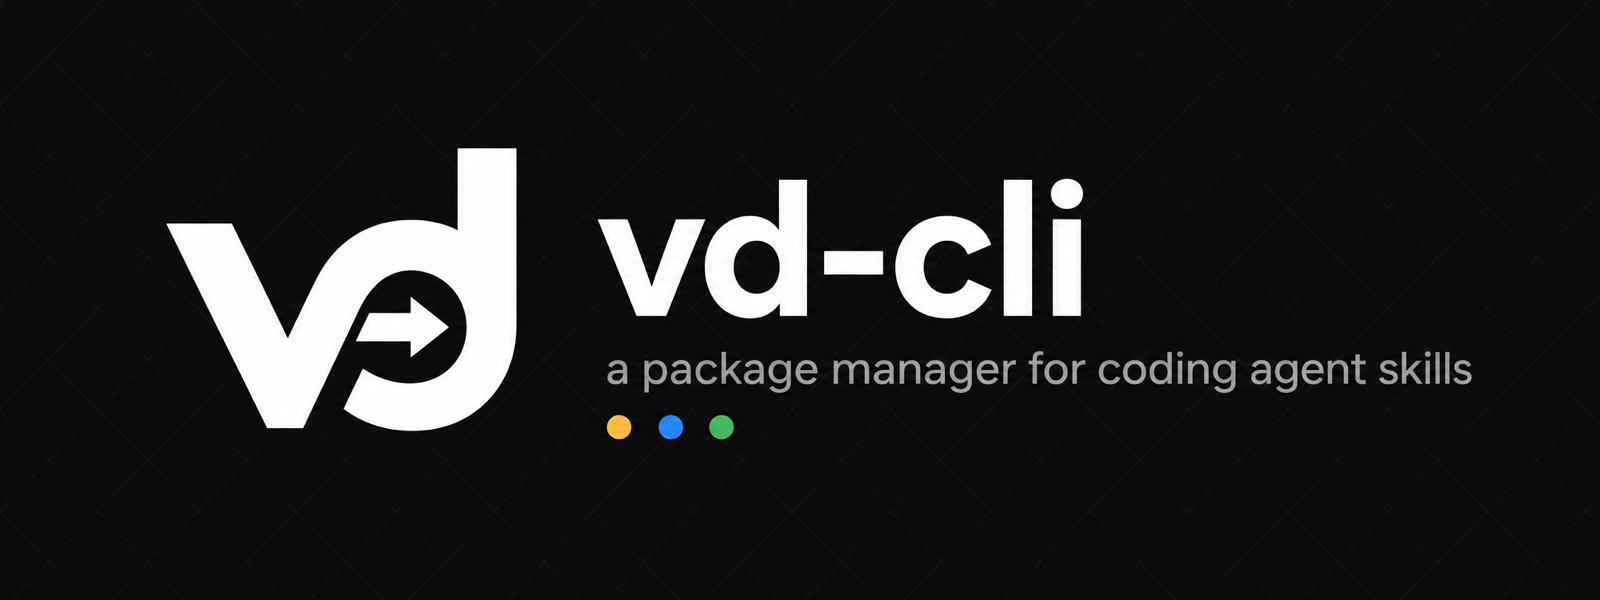
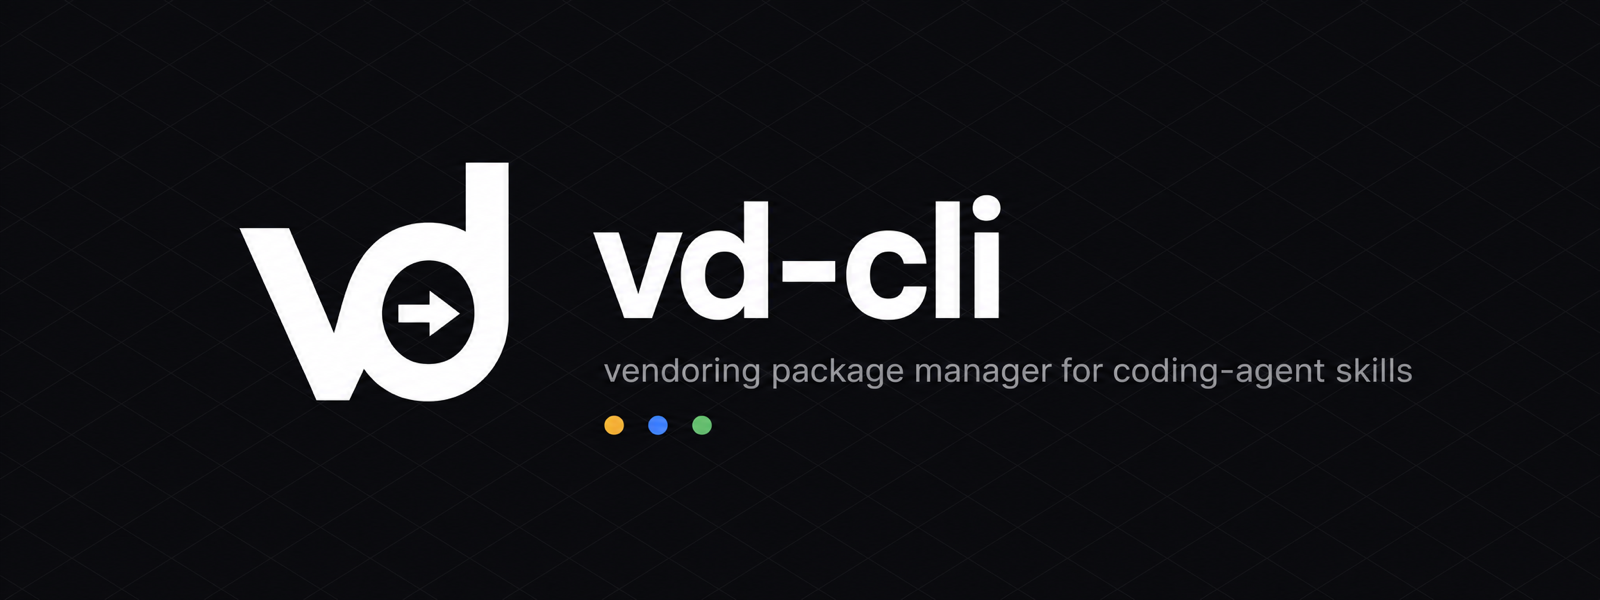
docs: add 'vendoring' differentiator to positioning copy
Per research (plans/reports/research-260523-2001-vd-positioning.md):
the 2026 agent-skills space is crowded with hosted-registry-flavored
package managers (Microsoft APM, Vercel Skills.sh, AgentPkg, Skilldex).
vd's distinctive angle is vendoring + SHA lock + multi-target dispatch
— skills live in your repo as plain files, no server, no runtime registry.

Adding the 'vendoring' adjective to the README intro, banner tagline,
brew description, and GitHub repo description surfaces that
differentiator without leaving the recognized 2026 category.

Unit noun stays 'skill' (Anthropic + Codex term-of-art, SKILL.md
hard-codes it). Category stays 'package manager' (industry consensus
per APM, Skilldex, JFrog narrative).

- README intro: 'vendoring package manager' + two-sentence flow
- assets/banner.png: re-rolled with new tagline
- .goreleaser.yaml: brew description updated for next release
- GH repo description: live now
- plans/reports/: research report for future reference

diff --git a/plans/reports/research-260523-2001-vd-positioning.md b/plans/reports/research-260523-2001-vd-positioning.md
@@ -1,0 +1,268 @@
+# Research: vd positioning — unit + category nouns
+
+_Date: 2026-05-23 · Mode: --deep · Queries: 7_
+
+## TL;DR
+
+- **Recommendation:** Keep **"skill"** (unit) + **"package manager"** (category). Inject **"vendoring"** as a differentiating adjective. Final shape: *"vendoring package manager for coding-agent skills."*
+- **Runner-up:** *"skill toolchain"* — wins only if avoiding the crowded "package manager" category outweighs ecosystem recognition. It doesn't, today.
+- **Avoid:** Coining a new unit noun (kit / bundle / recipe / chart / artifact). Anthropic, OpenAI, and every major 2026 competitor converged on "skill"; the SKILL.md filename hard-codes it at the filesystem layer. Going off-vocabulary is pure SEO and cognitive tax.
+
+## The Question
+
+Two paired decisions about how vd presents itself in a 2-second README/description scan:
+
+1. **Unit noun** — what does vd manage? (skill, package, artifact, toolset, capability, extension, plugin, recipe, chart, module, bundle, kit)
+2. **Category noun** — what category does vd belong to? (package manager, vendoring tool, dependency manager, registry, orchestrator, dispatcher, hub, marketplace, toolchain)
+
+The decision is irreversible-ish — once it lands in a GitHub description, brew formula description, and homepage tagline, it shapes how the project is found and understood.
+
+## Evaluation Criteria
+
+- **Ecosystem fit** — does the term match what Anthropic, OpenAI, and the broader coding-agent ecosystem already call this thing? Going off-vocabulary loses recognition.
+- **Category recognition** — when a developer scans `gh search "agent skills"`, do they immediately know what vd is?
+- **Differentiation** — does the framing surface vd's unique angle (vendoring + SHA lock + multi-target dispatch) vs the registry/runtime crowd (Skills.sh, AgentPkg, APM)?
+- **Collision / SEO** — naming overlap with established tools or generic words that dilute search.
+- **Future-proofness** — if vd grows beyond skills (Cursor rules, Cline rules, MCP configs), does the term constrain?
+- **Brevity / scanability** — fits in a 70-char GitHub description without losing meaning.
+
+## Options Considered
+
+Unit nouns (12):
+- **skill** — Anthropic/Codex term-of-art; SKILL.md is the filename
+- **package** — generic (npm, brew, dbt); used by competitors as parent category
+- **artifact** — build-output flavored; doesn't fit source files
+- **toolset** — implies a collection-per-unit; mismatch
+- **capability** — accurate semantically but verbose
+- **extension** — VS Code / Chrome convention; not used in agent-skills space
+- **plugin** — Anthropic uses this for the *bundle* layer (plugin = skills + commands + hooks)
+- **recipe** — Chef / OpenWrt; not adopted here
+- **chart** — Helm-coined; works because Helm owns it
+- **module** — Terraform / Go; implies linked code
+- **bundle** — collides with Anthropic's "plugin" already being a bundle
+- **kit** — vague brand-driven word
+
+Category nouns (10):
+- **package manager** — npm, brew, dbt, Helm; the dominant 2026 framing for the agent-skills space too
+- **vendoring tool** — accurate to vd's distinctive angle
+- **dependency manager** — synonymous with package manager but rarer in CLI tool naming
+- **registry** — wrong for vd (vd is a client, not a host)
+- **orchestrator** — cloud / k8s flavored
+- **dispatcher** — only describes `vd build`, not the vendoring half
+- **hub** — wrong (vd is the client)
+- **marketplace** — wrong (vd doesn't sell or host)
+- **toolchain** — accurate but unconventional in this space
+- **kit manager** — too vague
+
+## Ecosystem Landscape (May 2026)
+
+The 2026 agent-skills space is more crowded than expected. Direct positioning competitors:
+
+| Tool | Unit noun | Category framing | Hosting model |
+|---|---|---|---|
+| **Anthropic Claude Code** | skill | "Extend Claude with skills" + plugins | SKILL.md, plugin marketplace |
+| **OpenAI Codex** | skill | "Agent Skills" (open standard with Anthropic) | SKILL.md in `.agents/skills/` + plugins |
+| **Microsoft APM** ([github.com/microsoft/apm](https://github.com/microsoft/apm)) | skill, prompt, instruction, plugin, MCP | **Agent Package Manager** | apm.yml manifest, install per platform |
+| **Skills.sh (Vercel)** | skill | registry / marketplace, **18 agents supported** | hosted registry, tracks install counts |
+| **AgentPkg** ([agentpkg.com](https://www.agentpkg.com/)) | skill | **Agent Package Registry** | registry-hosted |
+| **Skilldex** ([arxiv 2604.16911](https://arxiv.org/abs/2604.16911)) | skill, **skillset** | "package manager and registry for agent skill packages" | hierarchical scope-based distribution |
+| **JFrog** | skill (positioning) | "Agent Skills are the New Packages of AI" | enterprise registry |
+| **SkillsMP** | skill | community discovery (351k SKILL.md files indexed) | GitHub crawler |
+| **dbt** | package | Package manager (`dbt deps`) | dbt Hub registry + git + local |
+| **Helm** | **chart** | "Package manager for K8s" | OCI chart registries |
+| **Cline** | rule | (no package manager) | `.clinerules/` per-repo |
+| **Cursor** | rule | (no package manager) | cursor rules per-repo |
+
+Five observations from this landscape:
+
+1. **"Skill" is the convergent unit term**, full stop. Anthropic + OpenAI joint open standard. APM, Skilldex, AgentPkg, Skills.sh, JFrog, SkillsMP — all use "skill." Picking anything else fights ecosystem gravity.
+
+2. **"Package manager" is the prevailing category framing** for this space in 2026. APM literally embeds it in the product name; Skilldex's title uses the phrase; JFrog blogs "Agent Skills are the New Packages." The 2026 industry narrative is "skills are the new npm packages." Going off-category loses SEO.
+
+3. **Most competitors are registries**, not vendoring tools. APM, Skills.sh, AgentPkg, Skilldex all involve some hosted catalog + install flow. vd is genuinely different: it vendors into your repo as plain files, hashes them, locks them, and emits per-agent layouts. dbt deps is the closest structural analog (vendor + lockfile + multi-source), not the registries.
+
+4. **"Plugin" is already taken** as the *bundle* layer above skills. A plugin contains skills + commands + hooks + MCP configs. So vd can't use "plugin" for its unit without colliding with Anthropic's hierarchy.
+
+5. **Cursor and Cline use "rule"**, not "skill" — they have no skills convention. Cline has `.clinerules/`, Cursor has `.cursorrules` / project rules. If vd ever grows to support those agents, the unit noun would need to be umbrella-able (e.g., "extension" or "agent context") — but for *today*, every agent vd supports uses "skill."
+
+## Comparison: Unit Noun
+
+| Criterion | skill | package | extension | recipe | bundle / kit |
+|---|---|---|---|---|---|
+| Ecosystem term-of-art | **✓ Anthropic/OpenAI** | ✗ overloaded | ✗ wrong space | ✗ unused here | ✗ collides with plugin |
+| Matches SKILL.md filename | **✓ literal match** | ✗ | ✗ | ✗ | ✗ |
+| Used by competitors | **✓ all of them** | ✗ they call vd-likes "package managers" but the unit is "skill" | ✗ | ✗ | ✗ |
+| Search / SEO | medium (slight overload w/ HR) | high but generic | low | low | very low |
+| Future-proof if vd adds rules | weak (skill ≠ rule) | medium (could umbrella) | medium | weak | weak |
+| Cognitive load | **lowest** — ecosystem readers know it | medium (too generic) | medium | high | high |
+| Dealbreaker | none today | wrong layer (unit ≠ category) | nobody calls them this | not adopted | collides with plugin |
+
+**Verdict: "skill."** Every signal converges. The filesystem hard-codes it (SKILL.md), the two agents vd supports both ship it as their term, and every direct competitor uses it. The only real cost is overload risk with the generic English word "skill," which the qualifier "coding-agent" (e.g., "coding-agent skill") resolves cleanly.
+
+## Comparison: Category Noun
+
+| Criterion | package manager | vendoring tool | dependency manager | registry | toolchain |
+|---|---|---|---|---|---|
+| 2026 ecosystem framing | **✓ dominant** | partial — accurate but uncommon phrasing | ✓ adjacent / synonymous | ✗ wrong (vd is client) | ✗ unconventional in this space |
+| Differentiates from registries | ✗ — APM also says this | **✓ strong** — vd doesn't host | ✓ — implies lockfile, no host | n/a (it IS the registries) | ✓ |
+| Search recognition | **highest** — "agent skills package manager" is the searched phrase | low — niche term outside Go/Ruby vendoring | medium | medium | low |
+| Implies lock + reproducibility | medium (npm-flavored) | **strongest** — vendoring → vendored | ✓ | weak | medium |
+| Implies multi-target dispatch | weak | weak | weak | weak | ✓ medium |
+| Conflict with Helm/dbt analogy | none — both call themselves PMs | none | none | n/a | rarely used |
+| Dealbreaker | doesn't differentiate from APM/Skills.sh on its own | too niche for cold scan | none | inaccurate for vd | doesn't match the category 2026 actually uses |
+
+**Verdict:** "package manager" is the category 2026 settled on. To differentiate vd from registry-flavored package managers (APM, Skills.sh, AgentPkg), pair it with the **"vendoring"** adjective. That single word does the heavy lifting: it signals "no server, no runtime registry — skills live in your repo as files with a lock."
+
+## Per-Option Deep Dive
+
+### "skill" (unit) — RECOMMENDED
+
+- **Strengths:** Ecosystem-convergent. Hard-coded by SKILL.md. Used by every direct competitor. Lowest cognitive load for the target audience.
+- **Weaknesses:** Generic English word — search overlap with HR/gaming. Risks looking *un*-distinctive when paired with a generic category noun.
+- **Dealbreakers:** None today. Possible future risk: if vd grows to manage Cursor `.cursorrules`, Cline `.clinerules/`, or MCP server configs — "skill" doesn't umbrella those. Mitigation: keep "skill" for the primary unit, document adjacent units (rules, MCP configs) as separate concepts in the roadmap rather than forcing them under one umbrella term.
+
+### "package" (unit) — REJECT
+
+- **Strengths:** Generic, instantly understood as "a unit of installable software."
+- **Weaknesses:** Wrong layer. In this ecosystem, "package" is the CATEGORY (package manager) and the contained thing is "skill." Saying vd manages "packages" creates a recursive confusion ("is vd a package manager for packages?"). dbt called its units "packages" because dbt predates the agent-skills convention by years; vd doesn't have that pass.
+- **Dealbreaker:** Wrong layer. Calling skills "packages" puts vd at odds with Anthropic's own docs and every Codex doc that mentions `.agents/skills/`.
+
+### "package manager" (category) — RECOMMENDED
+
+- **Strengths:** The 2026 category as recognized by APM, Skilldex, dbt, Helm, the JFrog narrative. Searchable. Familiar. No translation needed when explaining vd to a new dev.
+- **Weaknesses:** Doesn't on its own differentiate vd from registry-style competitors. Solved by adding "vendoring."
+- **Dealbreakers:** None.
+
+### "vendoring tool" (category) — RUNNER-UP
+
+- **Strengths:** Most accurate single phrase. Captures vd's distinctive value (no host, SHA-locked files in repo). Same shape as Go vendoring, Ruby Bundler, dbt deps.
+- **Weaknesses:** Niche term. Most developers in the agent-skills space won't search "vendoring tool" — they'll search "agent skills package manager" and "skill manager for Claude Code." Lower discoverability.
+- **Dealbreakers:** Reduced search recognition. Use as an *adjective on* "package manager," not as a replacement.
+
+### "registry" (category) — REJECT
+
+- **Strengths:** Established term in dev tooling.
+- **Weaknesses:** Inaccurate. vd is a *client* of registries (it pulls from GitHub, plugin marketplaces, raw URLs). Calling vd a registry mis-sets expectations and conflicts with what AgentPkg / Skills.sh actually are.
+- **Dealbreaker:** Wrong category. vd is consumer-side, registries are producer-side.
+
+### "toolchain" (category) — REJECT for category, INTERESTING for tagline
+
+- **Strengths:** Implies multi-step pipeline (fetch → lock → emit), which vd actually has.
+- **Weaknesses:** Not the category dev tools use in 2026 for this space.
+- **Dealbreaker:** Outside the recognized category vocabulary.
+
+## Failure Modes
+
+| Failure | Trigger | Symptom | Mitigation |
+|---|---|---|---|
+| Misidentified as a registry | Description leans on "manager" without "vendoring" | Users expect a hosted catalog; complain when they have to point at upstream URLs themselves | Lead with "vendoring" so expectation is set in the first sentence |
+| Drowned in SEO by APM / Skills.sh | Description copies the generic "Agent Package Manager" phrasing | vd gets buried under the funded competitors | Use distinctive "vendoring" + Claude/Codex name-drop; lean on the *client-side* nature |
+| Limits to skills only | Unit noun "skill" baked into copy, then Cursor / Cline support added | README/CHANGELOG suddenly contradict — "vd manages skills (and also rules?)" | Treat "skill" as the *primary* unit; note in roadmap that adjacent units (rules, MCP) may join as siblings, not under the "skill" umbrella |
+| Plugin-vs-skill confusion | README conflates the two | Users send Claude `plugin.json` patches when they meant SKILL.md | The Supported agents table already covers this — keep it |
+
+## Migration Paths
+
+- **From current copy ("Package manager for coding agent skills") → recommended ("Vendoring package manager for coding-agent skills"):** zero-risk. One-word insertion. Affects: GitHub description, README intro, goreleaser brew description.
+- **From recommended → runner-up ("Skill vendoring tool"):** higher cost. Drops the recognized category framing. Only worth it if vd ever wants to differentiate from APM/Skills.sh hard enough to sacrifice search recognition. Don't do this preemptively.
+- **From "skill" → any other unit noun:** very high cost. Touches docs, CHANGELOG, every internal doc reference. Not recommended unless the ecosystem itself shifts terminology (which would happen ecosystem-wide, not project-by-project).
+
+## Decision Reversibility
+
+Adding "vendoring" to the current copy is fully reversible — it's a one-word edit. Locking in a non-"skill" unit noun is structurally hard to reverse once it propagates through code paths (`skills.toml`, `skills.lock`, `skills/` directory layout, the SKILL.md filename itself). For this reason, the *unit* decision matters more than the *category* adjective decision, and the unit decision is settled by the ecosystem and the filesystem.
+
+## Operational War Stories (industry context)
+
+- **JFrog** ([blog post Jan 2026](https://jfrog.com/blog/agent-skills-new-ai-packages/)) frames the agent-skills space as the next-npm and explicitly notes the security/distribution gap that vendoring + lockfile addresses. Their angle: enterprises will treat skills like dependencies *because* skills carry executable behavior. vd's vendoring + SHA-lock model maps directly onto this narrative.
+- **APM (Microsoft)** chose the literal name "Agent Package Manager" — confirming the category vocabulary even from a 200-pound gorilla. vd's positioning needs to share the category but distinguish on mechanism (vendoring vs declarative install).
+- **Skills.sh (Vercel, Jan 2026 launch)** supports 18 agents and tracks install counts — a hosted registry model. vd's "you point at any URL, vendor it into your repo" model is the *opposite* design. The "vendoring" adjective communicates this opposition cleanly.
+- **dbt deps** is the strongest structural precedent: vendoring + lockfile + multi-source + drift detection. dbt confidently calls itself a "package manager" and calls its units "packages" — but dbt got there before agent-skills existed and predates the "skill" convention. vd can't claim "package" as a unit without colliding with the more-recent ecosystem.
+
+## Recommendation
+
+**Pair:** `"skill"` (unit) + `"vendoring package manager"` (category with differentiating adjective).
+
+**Why:**
+
+- "Skill" is settled by Anthropic + OpenAI + every direct competitor + the SKILL.md filename. No upside in deviating.
+- "Package manager" is the 2026 category for this exact problem space (per APM, Skilldex, JFrog, dbt analogy). Highest search recognition.
+- "Vendoring" differentiates vd from the registry-flavored competitors (Skills.sh, AgentPkg, APM) by signaling "no host, files in your repo, SHA-locked." Maps to dbt-deps and Go-vendoring precedent. One adjective, zero new vocabulary.
+
+**Runner-up:** `"skill"` + `"toolchain"` — wins only if vd ever wants to lean harder into the multi-target dispatch story (because "toolchain" implies multi-stage pipeline). Today, search recognition matters more.
+
+**Avoid:** Inventing a unit noun ("kit," "recipe," "chart"). The ecosystem chose; fighting it costs more than it pays.
+
+## Concrete Copy Recommendations
+
+### GitHub repo description (~70 chars)
+
+Current: `Package manager for coding agent skills (Claude Code, Codex)` (60 chars)
+
+Recommended: `Vendoring package manager for coding-agent skills (Claude Code, Codex)` (70 chars)
+
+The hyphen in "coding-agent" reads as a compound modifier and reduces "coding agent skills" ambiguity.
+
+### Banner tagline (in `assets/banner.png`)
+
+Current image text: `a package manager for coding agent skills`
+
+Optional re-roll: `vendoring package manager for coding-agent skills` — one word longer, communicates the differentiator at the top.
+
+Honest call: the banner is fine as-is. The differentiator can live one scroll-line down in the README intro. Re-rolling the banner just for one word costs a Codex generation and risks losing the current good composition.
+
+### README intro paragraph
+
+Current:
+> **vd** is a single-binary package manager for the skills that power your coding agents.
+> Vendor skills from any upstream, lock them with a SHA, sync them to every agent in your stack.
+
+Recommended:
+> **vd** is a single-binary vendoring package manager for the skills that power your coding agents.
+> Skills live in your repo as plain files. `vd` fetches them from any upstream, locks them with a SHA, and dispatches them to every agent in your stack.
+
+Two changes:
+1. Add "vendoring" before "package manager" — the differentiation adjective.
+2. Replace "lock them with a SHA, sync them to every agent" with a two-sentence flow that names the unique constraint ("skills live in your repo as plain files") before the action verbs. This is what separates vd from APM / Skills.sh, and it's worth one extra sentence.
+
+### Goreleaser brew description
+
+Current: `Package manager for coding agent skills (Claude Code, Codex)`
+
+Recommended: `Vendoring package manager for coding-agent skills (Claude Code, Codex)`
+
+### Section heading rename (optional)
+
+Current: `## Supported agents`
+
+Optional: `## Supported agent stacks` — slightly stronger framing of "stack" since agents combine into a stack. Not a strong opinion; either works.
+
+## Logo / Visual Identity — Does It Need Updating?
+
+No.
+
+The current logo (vd monogram with arrow inside the `d` counter) and the banner (logo + wordmark + tagline + four accent dots) both align with the recommended positioning:
+
+- The arrow visually represents "flow/sync/dispatch" — compatible with "vendoring + dispatch" framing.
+- The four accent dots on the banner read as "multiple agents supported" — directly on-message for multi-target.
+- The wordmark and monogram don't say "package manager" or "skill" explicitly — they're nouns-free, which means a positioning copy change doesn't invalidate them.
+
+A reasonable refinement, but not required: re-roll the banner to swap the tagline to `vendoring package manager for coding-agent skills`. Cost: one Codex generation, risk of losing the current composition. Skip unless visual update is wanted for other reasons.
+
+## Open Questions
+
+- **Cursor / Cline support:** if vd adds a `.clinerules/` or `.cursorrules` target, those agents call their units "rules" — does vd describe them as "rules" or absorb under "skills"? Best path: support them as a sibling unit (`vd add ... --kind rule`), keep "skill" as the primary noun. Defer until concrete demand.
+- **MCP server configs:** Anthropic's plugin layer includes MCP configs. If vd grows to manage MCP, the unit noun becomes ambiguous. Cleanest answer: vd manages the *plugin* (which contains skills + MCP + hooks), but skills remain the primary surface.
+- **"skill" overload:** Salesforce, HR, gaming, and education all use "skill" generically. Search-engine cold scan for `vd skill` may surface unrelated content. Worth tracking: if SEO becomes a bottleneck, adding "coding-agent" as a permanent qualifier resolves disambiguation.
+
+## References
+
+- [Anthropic Claude Code Skills docs](https://code.claude.com/docs/en/skills) — the official "skill" terminology
+- [OpenAI Codex Skills (Agent Skills open standard)](https://developers.openai.com/codex/skills) — joint convention with Anthropic
+- [Codex AGENTS.md guide](https://developers.openai.com/codex/guides/agents-md) — project-level instructions standard (Google/OpenAI/Sourcegraph/Cursor/Factory joint launch)
+- [Microsoft APM — Agent Package Manager](https://github.com/microsoft/apm) — direct competitor in the agent-skills package-manager space
+- [AgentPkg — Agent Package Registry](https://www.agentpkg.com/) — registry-flavored competitor
+- [Skilldex paper (arxiv 2604.16911)](https://arxiv.org/abs/2604.16911) — academic package-manager + registry for skills
+- [JFrog: "Agent Skills are the New Packages of AI"](https://jfrog.com/blog/agent-skills-new-ai-packages/) — industry-narrative framing
+- [Vercel Skills.sh launch coverage](https://www.buildmvpfast.com/blog/agent-skills-npm-ai-package-manager-2026) — registry supporting 18 agents
+- [dbt deps docs](https://docs.getdbt.com/reference/commands/deps) — closest structural precedent to vd (vendoring + lockfile + multi-source)
+- [Helm Glossary — why "chart" not "package"](https://helm.sh/docs/glossary/) — naming-the-unit precedent
+- [Claude Code Skills vs Plugins (Morphllm)](https://www.morphllm.com/claude-code-skills-mcp-plugins) — skill-vs-plugin hierarchy

diff --git a/README.md b/README.md
@@ -1,6 +1,6 @@
 <div align="center">
 
-<img src="assets/banner.png" alt="vd-cli — a package manager for coding agent skills" width="100%"/>
+<img src="assets/banner.png" alt="vd-cli — vendoring package manager for coding-agent skills" width="100%"/>
 
 <br/>
 
@@ -10,9 +10,9 @@
 [![CI](https://img.shields.io/github/actions/workflow/status/vanducng/vd-cli/test.yml?branch=main&style=flat-square&label=ci&labelColor=0a0a0c)](https://github.com/vanducng/vd-cli/actions/workflows/test.yml)
 
 <p>
-  <b>vd</b> is a single-binary package manager for the skills that power your coding agents.
+  <b>vd</b> is a single-binary <i>vendoring</i> package manager for the skills that power your coding agents.
   <br/>
-  Vendor skills from any upstream, lock them with a SHA, sync them to every agent in your stack.
+  Skills live in your repo as plain files. <code>vd</code> fetches them from any upstream, locks them with a SHA, and dispatches them to every agent in your stack.
 </p>
 
 </div>